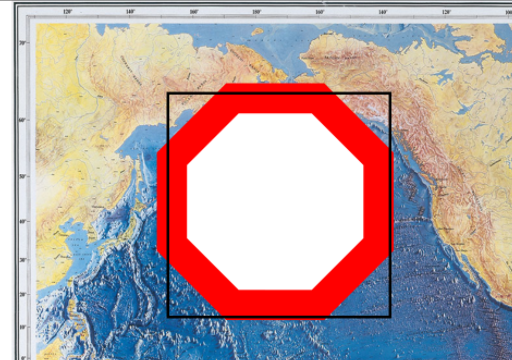
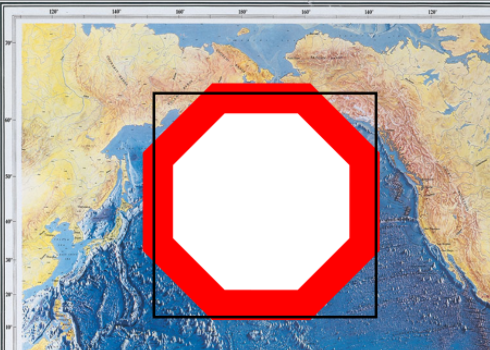
test images readme

diff --git a/README.md b/README.md
@@ -60,13 +60,13 @@ names:
 
 ### Labelling
 To labellise our images, we use https://labelbox.com. To make a good labelling that enable to train a good model, you have to remember to:
- - Make bounding boxes that includes the whole object, if the box is smaller than the object, it won't work.
+ - Make bounding boxes neither larger nor smaller than the object.
    - <figure>
-      <img src=https://github.com/sonia-auv/ai-framework/blob/test/images/case_1_good.png width="200">
+      <img src=https://github.com/sonia-auv/ai-framework/blob/test/images/case_1_good.png width="200"><br/>
       <figcaption>What to do</figcaption>
      </figure>
    - <figure>
-      <img src=https://github.com/sonia-auv/ai-framework/blob/test/images/case_1_bad.png width="200">
+      <img src=https://github.com/sonia-auv/ai-framework/blob/test/images/case_1_bad.png width="200"><br/><img src=https://github.com/sonia-auv/ai-framework/blob/test/images/case_2_bad.png width="200"><br/>
       <figcaption>What not to do</figcaption>
      </figure>
  - Make bounding boxes smallest box possible. This way, boxes will fit better the size of the object and the model will be more accurate.
